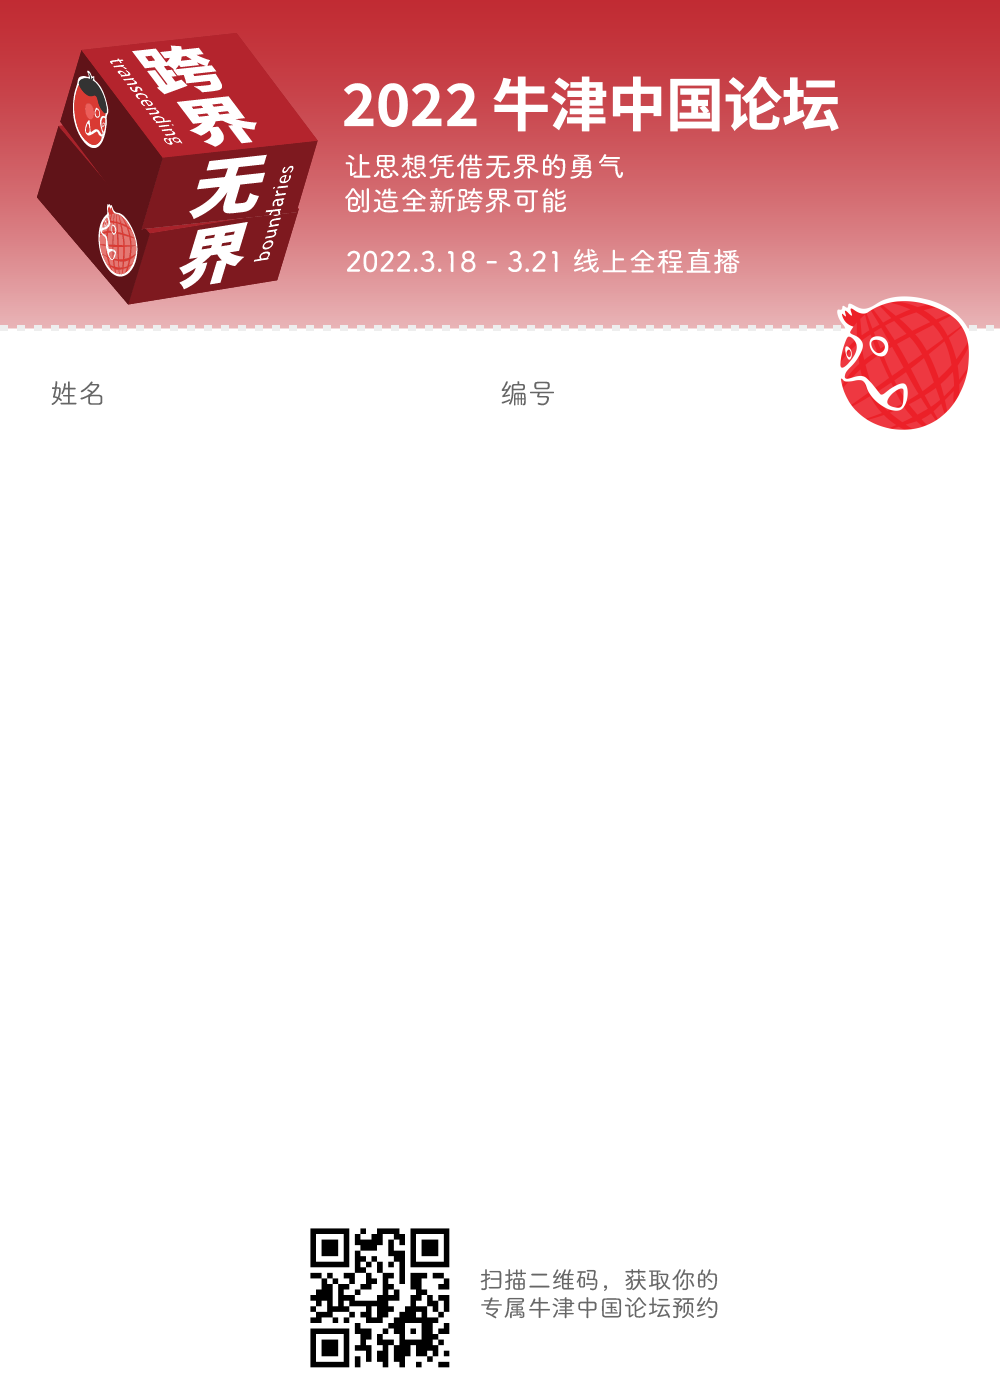
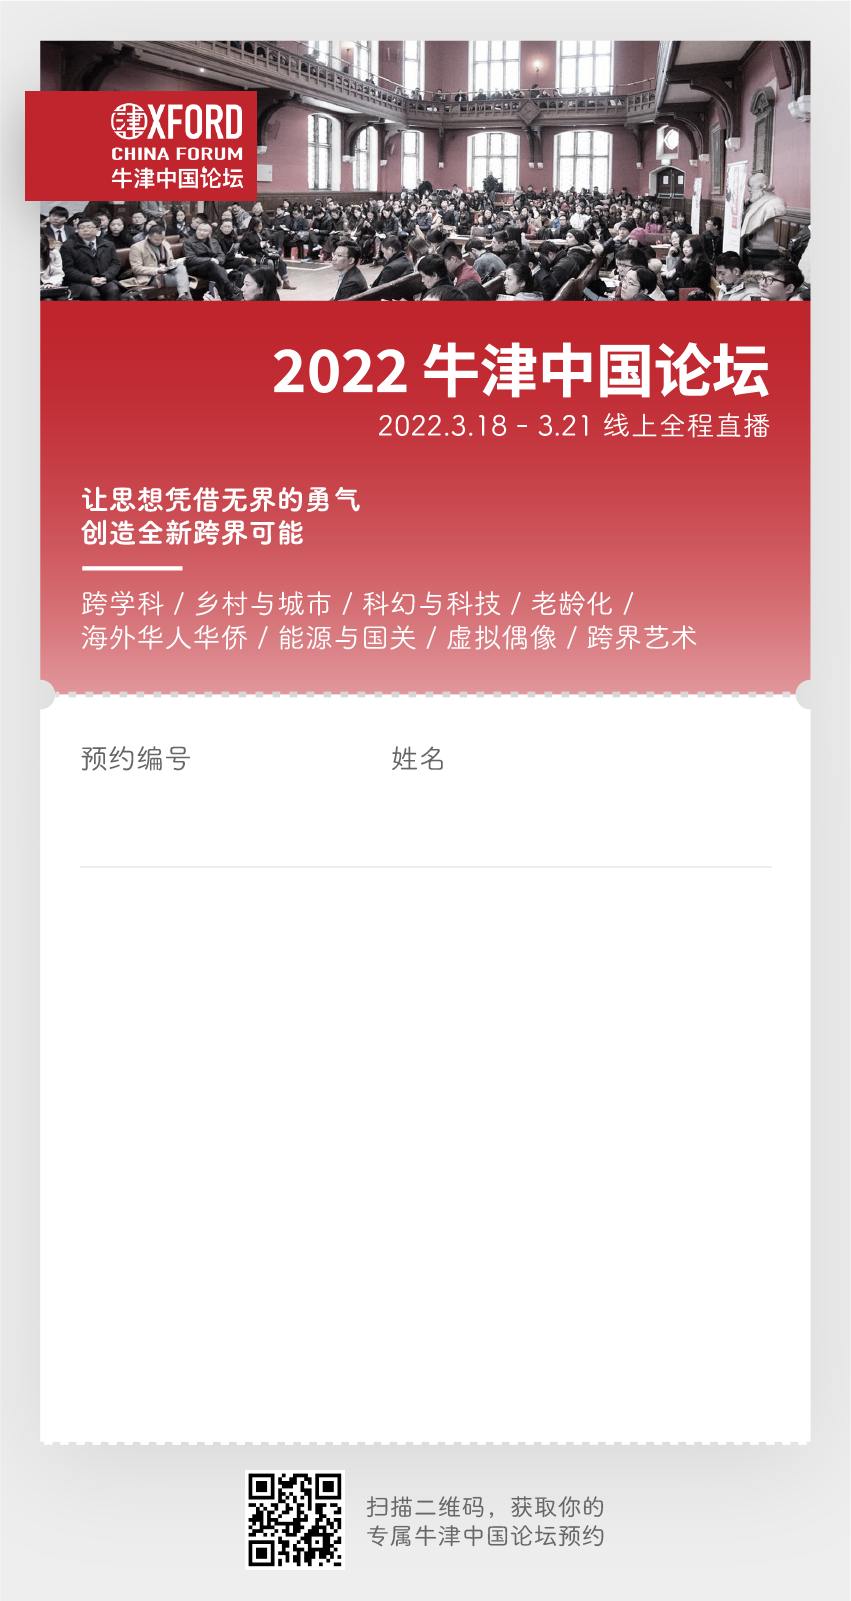
Much better ticket design and generation!

diff --git a/ocf/constants.py b/ocf/constants.py
@@ -11,7 +11,7 @@ AVATAR_OVERLAY_IMAGE = Path('assets/overlay.png')
 
 TICKET_OUTPUT_DIR = OUTPUT_DIR / 'tickets/'
 TICKET_BASE_IMAGE = Path('assets/ticket.png')
-TICKET_ID_DIGITS = 7
+TICKET_ID_DIGITS = 6
 
 # Create necessary directories
 AVATAR_OUTPUT_DIR.mkdir(exist_ok=True, parents=True)
@@ -61,20 +61,20 @@ TICKET_COLLEGES = [
 TICKET_OCCUPATION = ['本科生', '硕士生', '博士生', '副教授', '正教授']
 TICKET_LOCATIONS = ['考试院', '圣母玛利亚大学教堂', '拉德克利夫天文角', '谢尔登剧院', '大学公园', '植物园', '米尔城堡', '科学区', '高街', '阿什莫林艺术与考古博物馆', '皮特河博物馆', '叹息桥']
 TICKET_TOPICS = ['突破思维边界：跨学科的挑战与未来', '工业资本主义与研究精细化', '学科鄙视链', '计算社会科学与化学哲学', '跨专业研究团队', '专业壁垒与学术螺丝钉', '“书院”的尝试', '妖镍、限电与俄乌冲突', '油价、气价与金属价', '新能源转型', '碳达峰与碳中和', '气候变化塑造下的国际格局', '环资行业中企出海', '城市化与逆城市化', '城乡结构性不平等', '乡村改造乡村振兴', '李子柒与滇西小哥', '个体觉醒与乡土情结', '乡村生态系统与建筑文化', '唐人街中餐厅', '民族商业与族群社区', '多文化聚集中的文化自演绎', '民族生活史的切片', '文化资本与政治权利', '移民历史与知识遗产', '身体年龄、社会年龄与心理年龄', '世界与中国的人口老龄化', '“35岁”年龄焦虑', '养老院的想象力', '老年学与人口学', '“银龄讲学计划”', '赛博朋克与赛博格', '雨果奖、星云奖与中国科幻作家', '脑机接口与基因编辑', '道德与人性', '国产科幻大片', '未来事务研讨会', '初音未来、嘉然、柳夜熙', '人工智能永不塌房', '社会心理学、传播学、哲学', '中国神话与希腊神话', '对元宇宙的惶恐或憧憬', '偶像的内核', 'Kaws、太阳花与玲娜贝儿', 'NFT、区块链与垄断', '资本爆款与艺术平等', '收藏家、观众、画廊与媒体的微妙关系', '文化艺术消费品', '艺术的衍生媒介形态']
-TICKET_TEXT = '''
-4044 年，来到未来的你，
-入学成为了牛津大学建立于 {year} 年的
-{chinese} {english} 的一名{occupation}，
-正在潜心研究{major}专业。
-有一天你沿着小路，慢慢来到了熟悉的{location}
-准备好好享受一下美丽的春色。
-突然听见有一段录像带在吱扭吱扭播放，
-传来了来自古老远方地球蓝星上的智者声音，
-在讲古早人类时期{topic}。
-你不由听得入了神。
-
-8088年，
-录像带里的声音一直回荡在你心里，
-通过不懈的努力，
-你成功成为了这个时代次元该领域的头号人物。
-'''.strip()
+TICKET_TEXT = [
+    {'text': '4044 年，来到未来的你，\n入学成为了牛津大学建立于', 'color': 'black'},
+    {'text': ' {year} ', 'color': '#bf252d'},
+    {'text': '年的\n', 'color': 'black'},
+    {'text': '{chinese} {english} ', 'color': '#bf252d'},
+    {'text': '的一名', 'color': 'black'},
+    {'text': '{occupation}，\n', 'color': '#bf252d'},
+    {'text': '正在潜心研究', 'color': 'black'},
+    {'text': '{major}', 'color': '#bf252d'},
+    {'text': '专业。\n', 'color': 'black'},
+    {'text': '有一天你沿着小路，慢慢来到了熟悉的', 'color': 'black'},
+    {'text': '{location}\n', 'color': '#bf252d'},
+    {'text': '准备好好享受一下美丽的春色。\n突然听见有一段录像带在吱扭吱扭播放，\n传来了来自古老远方地球蓝星上的智者声音，\n在讲古早人类时期“', 'color': 'black'},
+    {'text': '{topic}', 'color': '#bf252d'},
+    {'text': '”。\n你不由听得入了神。\n\n', 'color': 'black'},
+    {'text': '8088年，\n录像带里的声音一直回荡在你心里，\n通过不懈的努力，\n你成功成为了这个时代次元该领域的头号人物。', 'color': 'black'},
+]

diff --git a/ocf/utils.py b/ocf/utils.py
@@ -40,6 +40,53 @@ def generate_ticket(name, ticket_id):
     occupation = random.choice(TICKET_OCCUPATION)
     location = random.choice(TICKET_LOCATIONS)
     topic = random.choice(TICKET_TOPICS)
+    
+    ticket_im = Image.open(TICKET_BASE_IMAGE.as_posix())
+    body_font = ImageFont.truetype(font='assets/FZFWZhuZiAYuanJWD.TTF', size=28)
+    title_font = ImageFont.truetype(font='assets/FZFWZhuZiAYuanJWB.TTF', size=52)
+    draw = ImageDraw.Draw(im=ticket_im)
+
+    # Draw ticket ID and name
+    draw.text((80, 780), text=ticket_id, font=title_font, fill='black')
+    draw.text((390, 780), text=name, font=title_font, fill='black')
+
+    # Draw body text
+    margin = 80
+    x_offset = margin
+    y_offset = 896
+    width = 690
+    line_height = body_font.getsize('H')[1] * 1.35
+    avoid_head_chars = ('。', '，', '”')
+    
+    curr_len = 0
+    for snippet in TICKET_TEXT:
+        line = snippet['text'].format(major=major, occupation=occupation, location=location, topic=topic, **college)
+        for char in line:
+            char_len = body_font.getlength(char)
+            if char == '\n' or (curr_len + char_len > width and char not in avoid_head_chars):
+                # Simulate line break
+                x_offset = margin
+                y_offset += line_height
+                curr_len = 0
+            if char != '\n':
+                # Draw single character
+                draw.text((x_offset, y_offset), text=char, font=body_font, fill=snippet['color'])
+                x_offset += char_len
+                curr_len += char_len
+
+    # Save the image
+    filename = f'{uuid.uuid1()}.jpg'
+    ticket_im.save((TICKET_OUTPUT_DIR / filename).as_posix(), 'jpeg', quality=IMAGE_OUTPUT_QUALITY, progressive=True)
+
+    return filename
+
+
+def generate_ticket_old(name, ticket_id):
+    major = random.choice(TICKET_MAJORS)
+    college = random.choice(TICKET_COLLEGES)
+    occupation = random.choice(TICKET_OCCUPATION)
+    location = random.choice(TICKET_LOCATIONS)
+    topic = random.choice(TICKET_TOPICS)
     random_text = TICKET_TEXT.format(major=major, occupation=occupation, location=location, topic=topic, **college)
     
     ticket_im = Image.open(TICKET_BASE_IMAGE.as_posix())
@@ -64,7 +111,7 @@ def generate_ticket(name, ticket_id):
     return filename
 
 
-def generate_ticket_old(name, ticket_id):
+def generate_ticket_old_old(name, ticket_id):
     ticket_im = Image.open(TICKET_BASE_IMAGE.as_posix())
     font = ImageFont.truetype(font='assets/FZFWZhuZiAYuanJWB.TTF', size=58)
     draw = ImageDraw.Draw(im=ticket_im)
